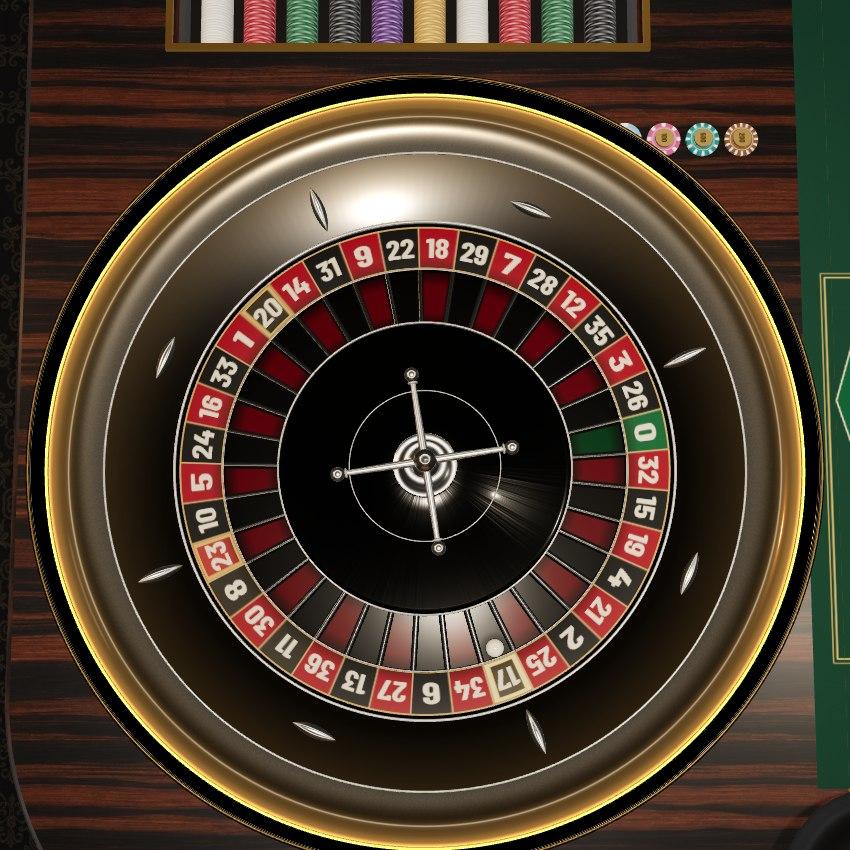
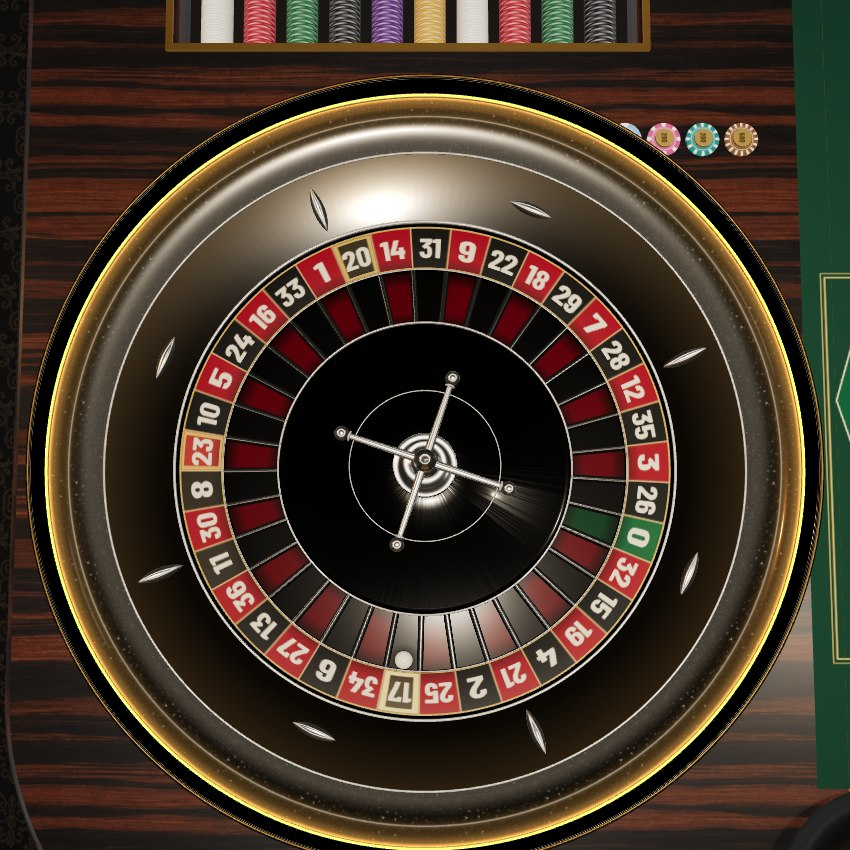
Roulette: the ball track in real stone
The track was a smooth gradient under the ring light and read as
plastic. It is now polished black granite with silver flecks
(assets/roulette/stone.webp: generated with Seedream 4 through
ElevenLabs, its middle square made seamless by crossfading it with
itself shifted by half), a picture to every 9 cm of track under the
same clear coat. The ring light's wash now gathers up at the wall, as
an LED under the rim throws it, so the stone shows across the rest.

Credited in the game, CREDITS.md and PROJECT.md; kept for offline play
in sw.js (a new file, so no version bump). The README's roulette
pictures are retaken.

Claude-Session: https://claude.ai/code/session_01LZAjciFf9xTUB7bzDLkKS6

diff --git a/index.html b/index.html
@@ -181,7 +181,7 @@
         <li>Dealer voices, the roulette croupier's wheelhead, launch, rake and dolly, the Lightning storm's rain, cheers, stings and menu sounds made for Salon Noir with ElevenLabs. Every sound, file by file: src/sounds/CREDITS.txt.</li>
         <li>Licences: CC BY 4.0 creativecommons.org/licenses/by/4.0 · CC BY 3.0 creativecommons.org/licenses/by/3.0 · CC BY-SA 3.0 creativecommons.org/licenses/by-sa/3.0 · CC BY-SA 4.0 creativecommons.org/licenses/by-sa/4.0 · CC0 creativecommons.org/publicdomain/zero/1.0</li>
         <li>Code: three.js (MIT), anime.js (MIT), canvas-confetti (ISC), Torph, web-haptics and cuelume (MIT); buttons and motion ported from Magic UI (MIT) and Kinetics. Fonts: Bodoni Moda, Cinzel, Inter, Barlow Condensed (SIL Open Font License).</li>
-        <li>Court cards, ace of spades, card back, felt, leather, wood veneer, the two salon panoramas and the carpet generated for Salon Noir. Classic court cards (the fallback) © 2018 Howard Yeh, MIT.</li>
+        <li>Court cards, ace of spades, card back, felt, leather, wood veneer, the roulette wheel's stone track, the two salon panoramas and the carpet generated for Salon Noir. Classic court cards (the fallback) © 2018 Howard Yeh, MIT.</li>
         <li>Blackjack and side bets after Nevada's All Bets Blackjack filing and New Jersey's 21+3 definitions. Roulette rules after the New Jersey, Singapore and Monte-Carlo rule filings; wheel after TCS John Huxley and Cammegh specifications; ball physics after Small &amp; Tse (2012).</li>
       </ul>
     </div></details>

diff --git a/sw.js b/sw.js
@@ -34,7 +34,7 @@ const FONTS = [...n('barlow-condensed-latin', '600-normal', '700-normal', '800-n
 const SUITS = ['clubs', 'diamonds', 'hearts', 'spades'];
 const FILES = [...['icon-192', 'icon-512', 'maskable-192', 'maskable-512', 'apple-touch-icon'].map(f => `icons/${f}.png`), ...FONTS.map(f => `src/fonts/${f}.woff2`),
   ...['back', 'felt', 'leather', 'salon', 'salon-light', 'carpet'].map(f => `assets/table/${f}.webp`), ...SUITS.flatMap(s => ['jack', 'queen', 'king'].map(r => `assets/cards/court-belt/${r}_of_${s}.webp`)),
-  'assets/cards/ace_of_spades_2.webp', 'assets/roulette/macassar.webp', 'assets/roulette/salon.webp', ...WAV.map(f => `src/sounds/${f}.wav`), ...KIT.map(f => `src/sounds/kit/${f}.mp3`)];
+  'assets/cards/ace_of_spades_2.webp', 'assets/roulette/macassar.webp', 'assets/roulette/salon.webp', 'assets/roulette/stone.webp', ...WAV.map(f => `src/sounds/${f}.wav`), ...KIT.map(f => `src/sounds/kit/${f}.mp3`)];
 // (the music, 7 MB, is kept the first time it plays rather than up front)
 
 const MEDIA_RE = /\.(mp3|wav|webp|png|jpe?g|woff2)$/i;

diff --git a/CREDITS.md b/CREDITS.md
@@ -43,7 +43,7 @@ File by file, with links and changes: [`src/sounds/CREDITS.txt`](src/sounds/CRED
 - **Court cards and the ace of spades in play** (`assets/cards/court-belt/`, `assets/cards/ace_of_spades_2.webp`): drawn for Salon Noir (generated art)
 - **Card back, felt, leather, the card salon panorama and the salon's carpet** (`assets/table/`): generated for Salon Noir (the panorama and the carpet with FLUX 3 Image through ElevenLabs; the panorama then blurred). `salon-light.webp`, the panorama's light mask (its mirrors, lamps and windows, for the storm), was drawn from it
 - **Classic court cards** (`assets/cards/{jack,queen,king}_of_*.webp`), shown only if a drawn court card fails to load: from Howard Yeh's [playing-cards-assets](https://github.com/hayeah/playing-cards-assets), MIT, © 2018 Howard Yeh (`assets/cards/LICENSE.txt`)
-- **Wood veneer and the roulette salon panorama** (`assets/roulette/`): generated for Salon Noir (the panorama with FLUX 3 Image through ElevenLabs, then blurred)
+- **Wood veneer, the wheel's stone ball track and the roulette salon panorama** (`assets/roulette/`): generated for Salon Noir (the panorama with FLUX 3 Image through ElevenLabs, then blurred; the stone, `stone.webp`, with Seedream 4 through ElevenLabs, then made seamless)
 - **Card faces, pips, chips and felt lettering:** drawn in code (`src/scene/textures.mjs`)
 - **App icons** (`icons/`): rendered from the Salon Noir mark in `src/core/brand.mjs`
 

diff --git a/PROJECT.md b/PROJECT.md
@@ -132,7 +132,7 @@ src/                       All code, styles, fonts, sounds and libraries
 assets/
   cards/                   Court-card art: court-belt/ is the set in play; the top-level J/Q/K files (Howard Yeh, MIT) are the fallback
   table/                   Felt, leather, card back, the card salon panorama (and salon-light.webp, its mirrors, lamps and windows as R, G, B) and the carpet both rooms stand on
-  roulette/                Wood veneer and the roulette salon panorama (each room's panorama is wrapped round its table, out of focus: salonWall in scene/stage.mjs)
+  roulette/                Wood veneer, the wheel's stone track (stone.webp) and the roulette salon panorama (each room's panorama is wrapped round its table, out of focus: salonWall in scene/stage.mjs)
 ```
 
 ## Architecture rules (keep these)
